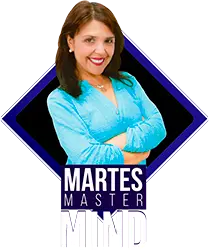
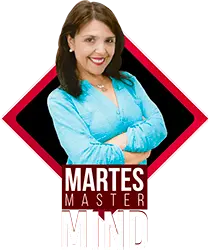
Actualizando cambios

diff --git a/resources/css/master-mind.css b/resources/css/master-mind.css
@@ -1,5 +1,3 @@
-
-
 @media (min-width: 1200px)   {
   .indicator__container {
     width: 8rem;
@@ -208,11 +206,11 @@ header {
 }
   
 .degradado3 {
-  background: linear-gradient(to bottom, #3c0f6f, #002c54);
+  background: linear-gradient(to bottom, #3c0f6f, #54001B);
 }
 
 .degradado4 {
-  background: linear-gradient(to bottom, #002c54, #000);
+  background: linear-gradient(to bottom, #54001B, #000);
 }
 
 .suscribete {
